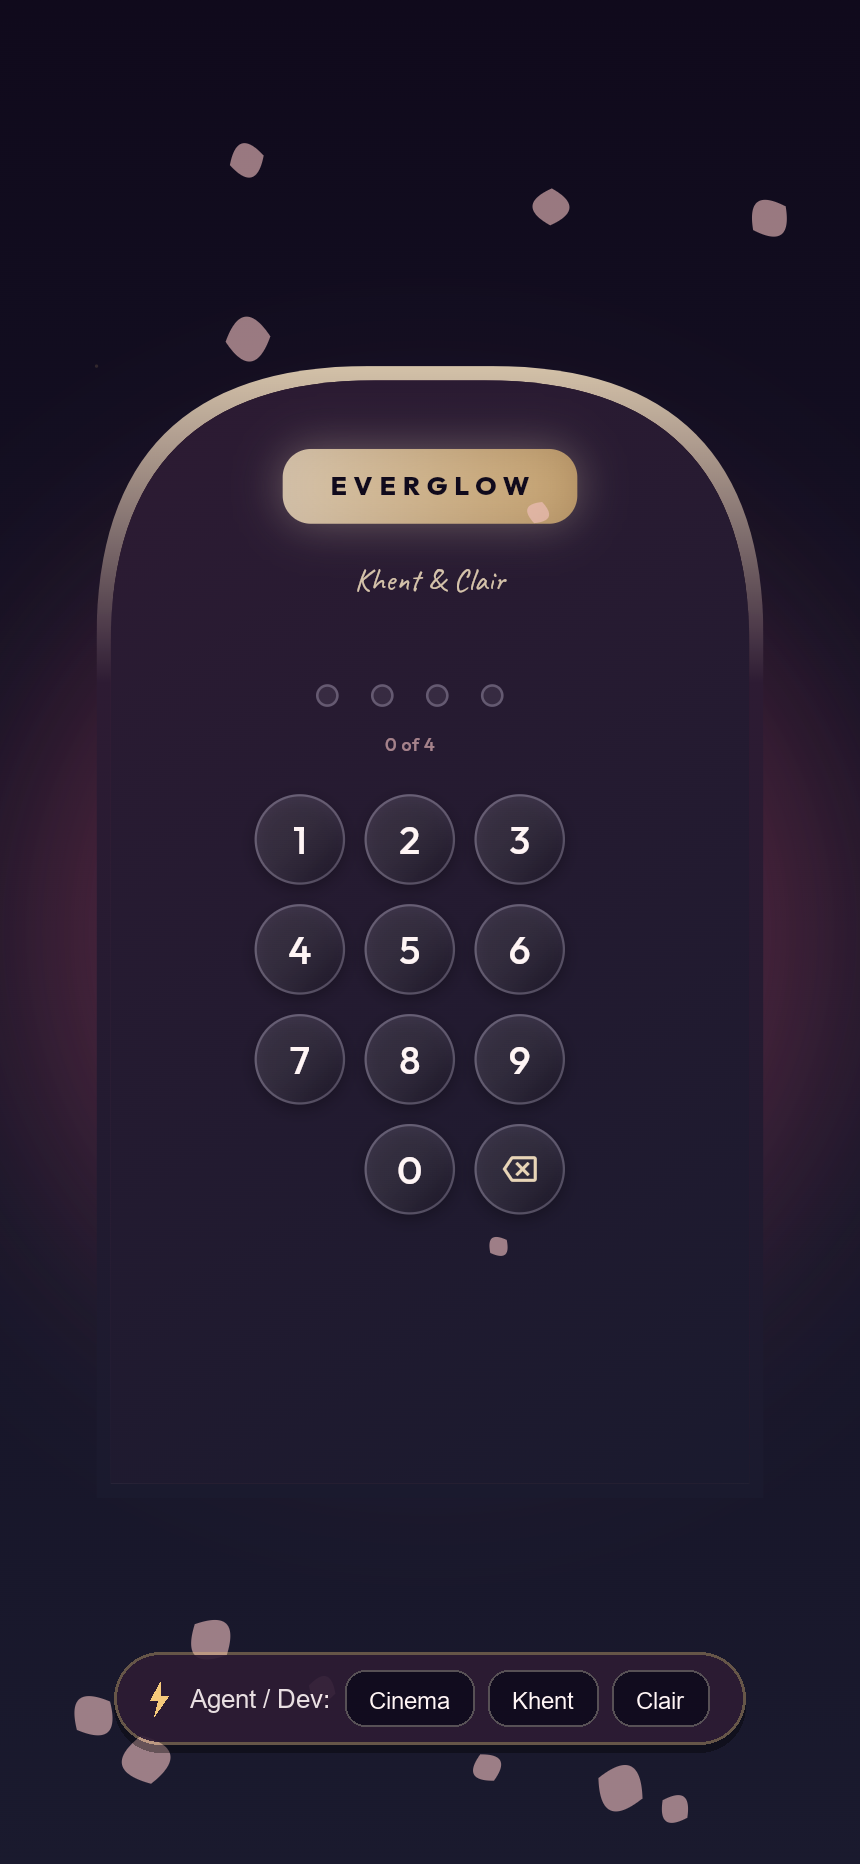
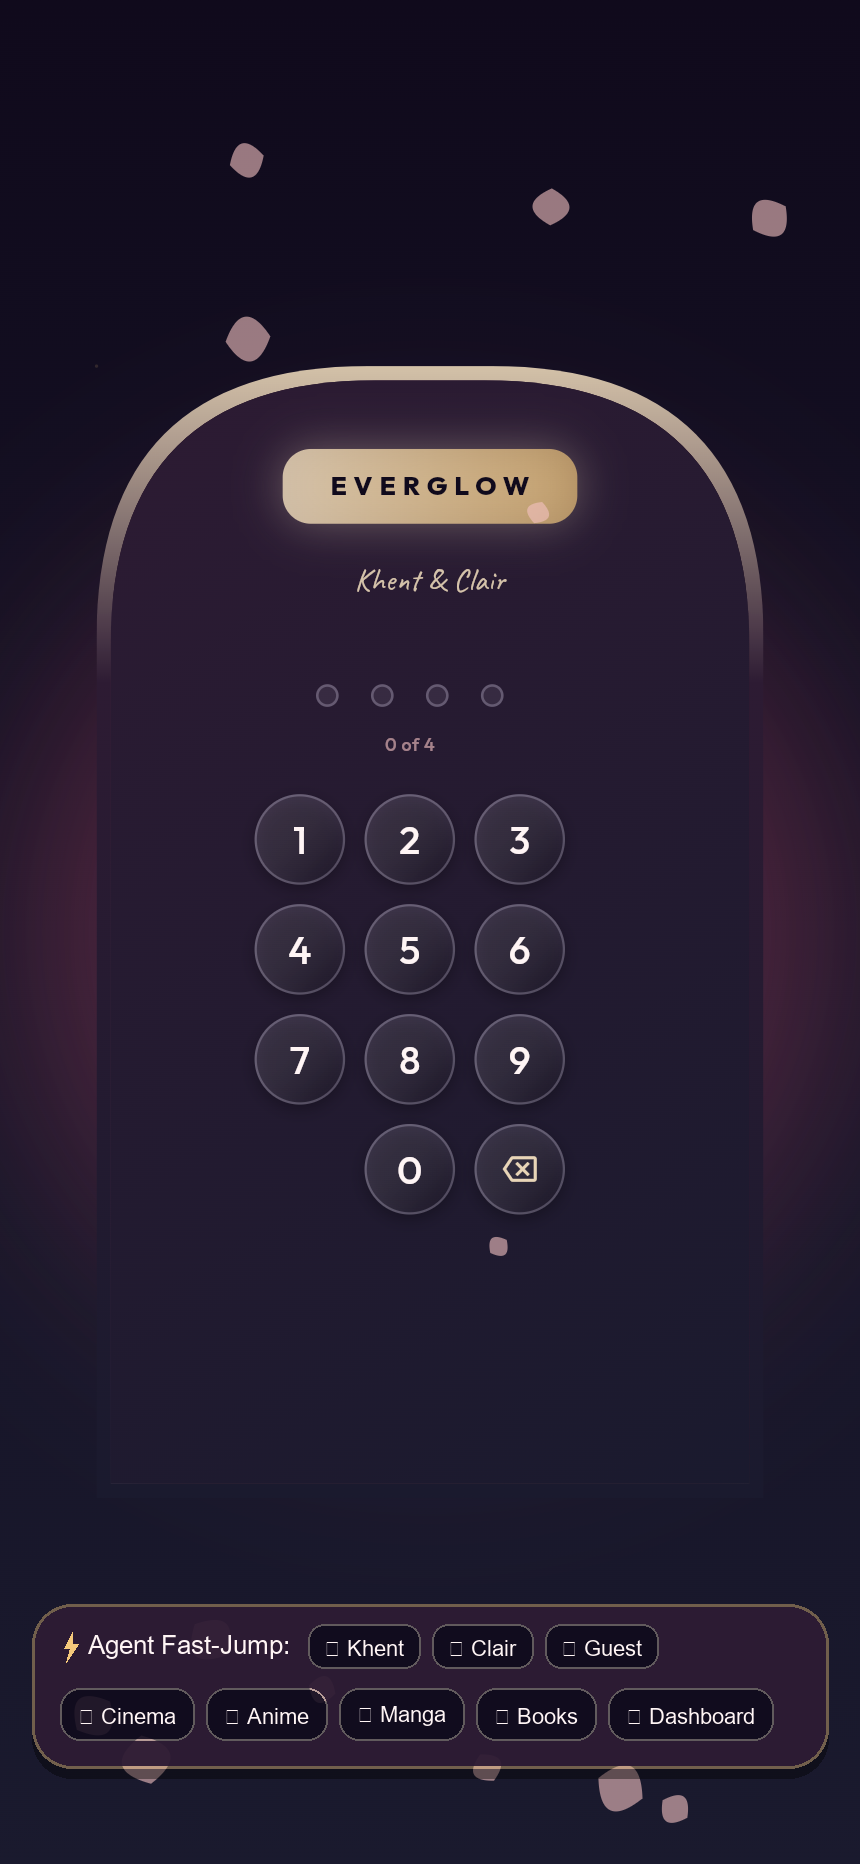
feat(agent): expand launchpad and HUD to cover the whole site (anime, manga, books, and all features)

Changed region(s): [[0.0302, 0.8712, 0.8767, 0.9646], [0.9372, 0.8712, 0.9674, 0.9335]]

diff --git a/lib/features/entry/presentation/pages/gateway_page.dart b/lib/features/entry/presentation/pages/gateway_page.dart
@@ -507,45 +507,122 @@ class _GatewayPageState extends State<GatewayPage> {
   }
 
   Widget _buildDevLoginBar() {
-    final chips = <Widget>[
-      _devUserChip('Cinema', () => _agentLogin('breyan')),
-      _devUserChip('Khent', () => _agentLogin('khentsgdz')),
-      _devUserChip('Clair', () => _agentLogin('clairjassen')),
-      if (EnvConfig.breyanPasscode.isNotEmpty)
-        _devUserChip('Passcode', () => _quickLogin(EnvConfig.breyanPasscode)),
+    final destinations = <({String label, String route, IconData icon})>[
+      (label: 'Cinema', route: '/cinema', icon: Icons.movie_rounded),
+      (label: 'Anime', route: '/anime', icon: Icons.smart_display_rounded),
+      (label: 'Mangacelestia', route: '/manga', icon: Icons.auto_stories_rounded),
+      (label: 'Books', route: '/books', icon: Icons.menu_book_rounded),
+      (label: 'Dashboard', route: '/dashboard', icon: Icons.home_rounded),
+      (label: 'Sanctuary', route: '/sanctuary', icon: Icons.chat_bubble_rounded),
+      (label: 'Gallery', route: '/gallery', icon: Icons.photo_library_rounded),
+      (label: 'Journal', route: '/journal', icon: Icons.book_rounded),
+      (label: 'Tonight', route: '/tonight', icon: Icons.nightlife_rounded),
+      (label: 'Play Zone', route: '/play-zone', icon: Icons.sports_esports_rounded),
+      (label: 'Academy', route: '/academy', icon: Icons.school_rounded),
+      (label: 'Garden', route: '/garden', icon: Icons.local_florist_rounded),
+      (label: 'Starlight', route: '/starlight', icon: Icons.star_rounded),
+      (label: 'Calendar', route: '/calendar', icon: Icons.calendar_month_rounded),
+      (label: 'Trip Kit', route: '/trip-kit', icon: Icons.flight_takeoff_rounded),
+      (label: 'Jukebox', route: '/jukebox', icon: Icons.music_note_rounded),
+      (label: 'Canvas', route: '/canvas', icon: Icons.palette_rounded),
+      (label: 'Bucket List', route: '/bucket-list', icon: Icons.checklist_rounded),
+      (label: 'Money', route: '/money', icon: Icons.account_balance_wallet_rounded),
     ];
 
     return Container(
+      margin: const EdgeInsets.symmetric(horizontal: 16),
+      constraints: const BoxConstraints(maxWidth: 860),
       padding: const EdgeInsets.symmetric(horizontal: 14, vertical: 8),
       decoration: BoxDecoration(
-        color: AppColors.velvet.withValues(alpha: 0.90),
-        borderRadius: BorderRadius.circular(999),
+        color: AppColors.velvet.withValues(alpha: 0.95),
+        borderRadius: BorderRadius.circular(20),
         border: Border.all(
-          color: AppColors.auroraGold.withValues(alpha: 0.35),
+          color: AppColors.auroraGold.withValues(alpha: 0.40),
           width: 1,
         ),
         boxShadow: [
           BoxShadow(
-            color: Colors.black.withValues(alpha: 0.35),
-            blurRadius: 12,
+            color: Colors.black.withValues(alpha: 0.45),
+            blurRadius: 16,
             offset: const Offset(0, 4),
           ),
         ],
       ),
-      child: Row(
+      child: Column(
         mainAxisSize: MainAxisSize.min,
         children: [
-          const Icon(Icons.bolt_rounded, color: AppColors.auroraGold, size: 16),
-          const SizedBox(width: 6),
-          Text(
-            'Dev Login:',
-            style: TextStyle(
-              color: AppColors.petalWhite.withValues(alpha: 0.85),
-              fontSize: 12,
-              fontWeight: FontWeight.w600,
+          Row(
+            mainAxisSize: MainAxisSize.min,
+            children: [
+              const Icon(Icons.bolt_rounded, color: AppColors.auroraGold, size: 16),
+              const SizedBox(width: 6),
+              Text(
+                'Agent Fast-Jump:',
+                style: TextStyle(
+                  color: AppColors.petalWhite.withValues(alpha: 0.90),
+                  fontSize: 12,
+                  fontWeight: FontWeight.w700,
+                ),
+              ),
+              const SizedBox(width: 8),
+              _devUserChip('👤 Khent', () => _agentLogin('khentsgdz')),
+              const SizedBox(width: 6),
+              _devUserChip('🌸 Clair', () => _agentLogin('clairjassen')),
+              const SizedBox(width: 6),
+              _devUserChip('🍿 Guest', () => _agentLogin('breyan')),
+              if (EnvConfig.breyanPasscode.isNotEmpty) ...[
+                const SizedBox(width: 6),
+                _devUserChip('Passcode', () => _quickLogin(EnvConfig.breyanPasscode)),
+              ],
+            ],
+          ),
+          const SizedBox(height: 6),
+          SingleChildScrollView(
+            scrollDirection: Axis.horizontal,
+            child: Row(
+              mainAxisSize: MainAxisSize.min,
+              children: [
+                for (final dest in destinations) ...[
+                  Padding(
+                    padding: const EdgeInsets.only(right: 6),
+                    child: InkWell(
+                      onTap: () => _agentJump(dest.route),
+                      borderRadius: BorderRadius.circular(12),
+                      child: Container(
+                        padding: const EdgeInsets.symmetric(horizontal: 9, vertical: 4),
+                        decoration: BoxDecoration(
+                          color: AppColors.inkDeep.withValues(alpha: 0.85),
+                          borderRadius: BorderRadius.circular(12),
+                          border: Border.all(
+                            color: AppColors.blushGold.withValues(alpha: 0.35),
+                          ),
+                        ),
+                        child: Row(
+                          mainAxisSize: MainAxisSize.min,
+                          children: [
+                            Icon(
+                              dest.icon,
+                              size: 13,
+                              color: AppColors.auroraGold,
+                            ),
+                            const SizedBox(width: 4),
+                            Text(
+                              dest.label,
+                              style: const TextStyle(
+                                color: AppColors.petalWhite,
+                                fontSize: 11,
+                                fontWeight: FontWeight.w500,
+                              ),
+                            ),
+                          ],
+                        ),
+                      ),
+                    ),
+                  ),
+                ],
+              ],
             ),
           ),
-          for (final chip in chips) ...[const SizedBox(width: 6), chip],
         ],
       ),
     );
@@ -561,6 +638,13 @@ class _GatewayPageState extends State<GatewayPage> {
       fallback: isCinema ? '/cinema' : '/dashboard',
     );
     context.go(destination);
+  }
+
+  void _agentJump(String route, {String profile = 'khentsgdz'}) {
+    AgentMode.enable(profile: profile);
+    context.read<AuthService>().enableAgentSession(profile: profile);
+    _hasNavigated = true;
+    context.go(route);
   }
 
   Widget _devUserChip(String label, VoidCallback onTap) {

diff --git a/lib/core/router/app_router.dart b/lib/core/router/app_router.dart
@@ -33,7 +33,9 @@ import '../di/app_providers.dart' as di;
 ///
 /// Each feature owns its route modules under `presentation/routes/`; this
 /// file only composes them. Simple routes use URL parameters. Complex object
-/// routes use `extra`.\n/// Navigation examples:\n///   context.go('/dashboard')
+/// routes use `extra`.
+/// Navigation examples:
+///   context.go('/dashboard')
 ///   context.push('/cinema/video/123?title=Foo&type=movie')
 ///   context.push('/books/reader', extra: bookItem)
 GoRouter createAppRouter() {
@@ -43,14 +45,36 @@ GoRouter createAppRouter() {
       final loc = state.matchedLocation;
       final uri = state.uri;
 
-      // Agent mode activation from query parameter (?agent=1, ?agent=khent, ?agent=cinema, etc.)
+      // Agent mode activation from query parameter (?agent=1, ?agent=khent, ?agent=cinema, ?agent=anime, ?agent=manga, etc.)
       final agentParam = uri.queryParameters['agent'] ?? uri.queryParameters['demo'];
+      final jumpParam = uri.queryParameters['jump'] ?? uri.queryParameters['to'];
+      String? targetRoute;
+
       if (agentParam != null) {
-        final profile = AgentMode.parseProfile(agentParam);
-        AgentMode.enable(profile: profile);
-        di.authService.enableAgentSession(profile: profile);
+        final lower = agentParam.toLowerCase().trim();
+        if (AgentMode.routeAliases.containsKey(lower)) {
+          targetRoute = AgentMode.routeAliases[lower];
+          final profile = lower == 'cinema' ? 'breyan' : 'khentsgdz';
+          AgentMode.enable(profile: profile);
+          di.authService.enableAgentSession(profile: profile);
+        } else {
+          final profile = AgentMode.parseProfile(agentParam);
+          AgentMode.enable(profile: profile);
+          di.authService.enableAgentSession(profile: profile);
+        }
       } else if (AgentMode.isActive.value && di.authService.currentUser == null) {
         di.authService.enableAgentSession(profile: AgentMode.activeProfile.value);
+      }
+
+      if (jumpParam != null && jumpParam.isNotEmpty) {
+        final lower = jumpParam.toLowerCase().trim();
+        targetRoute = AgentMode.routeAliases[lower] ?? jumpParam;
+        if (!targetRoute.startsWith('/')) targetRoute = '/$targetRoute';
+      }
+
+      // If opening doorway with an agent destination target, navigate directly
+      if (loc == '/' && targetRoute != null && targetRoute != '/') {
+        return targetRoute;
       }
 
       // The perf bench is reachable logged out (it carries its own fake data),

diff --git a/lib/core/agent/agent_hud.dart b/lib/core/agent/agent_hud.dart
@@ -61,16 +61,26 @@ class AgentHud extends StatefulWidget {
 
 class _AgentHudState extends State<AgentHud> {
   static const List<({String label, String route, IconData icon})> _routes = [
-    (label: 'Home', route: '/dashboard', icon: Icons.home_rounded),
+    (label: 'Dashboard', route: '/dashboard', icon: Icons.home_rounded),
     (label: 'Cinema', route: '/cinema', icon: Icons.movie_rounded),
     (label: 'Anime', route: '/anime', icon: Icons.smart_display_rounded),
+    (label: 'Mangacelestia', route: '/manga', icon: Icons.auto_stories_rounded),
     (label: 'Books', route: '/books', icon: Icons.menu_book_rounded),
-    (label: 'Manga', route: '/manga', icon: Icons.auto_stories_rounded),
     (label: 'Sanctuary', route: '/sanctuary', icon: Icons.chat_bubble_rounded),
     (label: 'Gallery', route: '/gallery', icon: Icons.photo_library_rounded),
     (label: 'Journal', route: '/journal', icon: Icons.book_rounded),
-    (label: 'Play', route: '/play-zone', icon: Icons.sports_esports_rounded),
-    (label: 'Door', route: '/', icon: Icons.meeting_room_rounded),
+    (label: 'Tonight', route: '/tonight', icon: Icons.nightlife_rounded),
+    (label: 'Play Zone', route: '/play-zone', icon: Icons.sports_esports_rounded),
+    (label: 'Academy', route: '/academy', icon: Icons.school_rounded),
+    (label: 'Garden', route: '/garden', icon: Icons.local_florist_rounded),
+    (label: 'Starlight', route: '/starlight', icon: Icons.star_rounded),
+    (label: 'Calendar', route: '/calendar', icon: Icons.calendar_month_rounded),
+    (label: 'Trip Kit', route: '/trip-kit', icon: Icons.flight_takeoff_rounded),
+    (label: 'Canvas', route: '/canvas', icon: Icons.palette_rounded),
+    (label: 'Bucket List', route: '/bucket-list', icon: Icons.checklist_rounded),
+    (label: 'Money', route: '/money', icon: Icons.account_balance_wallet_rounded),
+    (label: 'Jukebox', route: '/jukebox', icon: Icons.music_note_rounded),
+    (label: 'Doorway', route: '/', icon: Icons.meeting_room_rounded),
   ];
 
   void _cycleProfile(BuildContext context) {

diff --git a/lib/core/agent/agent_mode.dart b/lib/core/agent/agent_mode.dart
@@ -13,6 +13,42 @@ import '../utils/logger.dart';
 class AgentMode {
   AgentMode._();
 
+  /// Map of convenient route aliases for direct agent navigation.
+  static const Map<String, String> routeAliases = {
+    'cinema': '/cinema',
+    'anime': '/anime',
+    'manga': '/manga',
+    'mangacelestia': '/manga',
+    'books': '/books',
+    'bibliotheca': '/books',
+    'dashboard': '/dashboard',
+    'home': '/dashboard',
+    'sanctuary': '/sanctuary',
+    'chat': '/sanctuary',
+    'gallery': '/gallery',
+    'journal': '/journal',
+    'tonight': '/tonight',
+    'calendar': '/calendar',
+    'garden': '/garden',
+    'bloom': '/garden',
+    'starlight': '/starlight',
+    'play': '/play-zone',
+    'playzone': '/play-zone',
+    'play-zone': '/play-zone',
+    'arcade': '/play-zone',
+    'academy': '/academy',
+    'trip-kit': '/trip-kit',
+    'tripkit': '/trip-kit',
+    'canvas': '/canvas',
+    'bucket-list': '/bucket-list',
+    'bucketlist': '/bucket-list',
+    'money': '/money',
+    'jukebox': '/jukebox',
+    'music': '/jukebox',
+    'watch-party': '/watch-party',
+    'watchparty': '/watch-party',
+  };
+
   /// Whether Agent Mode is currently enabled.
   static final ValueNotifier<bool> isActive = ValueNotifier<bool>(false);
 

diff --git a/test/core/agent/agent_mode_test.dart b/test/core/agent/agent_mode_test.dart
@@ -25,6 +25,20 @@ void main() {
       expect(AgentMode.parseProfile('breyan'), 'breyan');
     });
 
+    test('routeAliases covers core destinations including anime and manga', () {
+      expect(AgentMode.routeAliases['cinema'], '/cinema');
+      expect(AgentMode.routeAliases['anime'], '/anime');
+      expect(AgentMode.routeAliases['manga'], '/manga');
+      expect(AgentMode.routeAliases['mangacelestia'], '/manga');
+      expect(AgentMode.routeAliases['books'], '/books');
+      expect(AgentMode.routeAliases['bibliotheca'], '/books');
+      expect(AgentMode.routeAliases['dashboard'], '/dashboard');
+      expect(AgentMode.routeAliases['sanctuary'], '/sanctuary');
+      expect(AgentMode.routeAliases['gallery'], '/gallery');
+      expect(AgentMode.routeAliases['journal'], '/journal');
+      expect(AgentMode.routeAliases['play-zone'], '/play-zone');
+    });
+
     test('enable and switchProfile update active state and profile', () {
       expect(AgentMode.isActive.value, isFalse);
 

diff --git a/AGENTS.md b/AGENTS.md
@@ -52,11 +52,11 @@ Three rules never bend, even if the skill is not loaded:
 
 ### Agent Mode & Local Testing (Direct Navigation & Privacy-Safe Demo Data)
 
-Agents and local developers do not need real credentials or passcodes to test Everglow:
+Agents and local developers do not need real credentials or passcodes to test Everglow across the ENTIRE site:
 
-- **Bypass the Door via URL parameter:** Append `?agent=1`, `?agent=khent`, `?agent=clair`, or `?agent=cinema` to any route (e.g. `http://localhost:<port>/cinema?agent=1` or `http://localhost:<port>/dashboard?agent=khent`). This logs into an isolated simulated session and bypasses the password door without redirects.
-- **Door Bypass Chips:** If opened on `/`, click the `Cinema`, `Khent`, or `Clair` chips on the bottom dev bar to log in with one click.
-- **Floating Agent HUD:** A floating toolbar is present at the bottom of the screen in dev / agent mode. Click route chips (`/dashboard`, `/cinema`, `/anime`, `/books`, `/manga`, `/sanctuary`, `/gallery`, `/journal`, `/play-zone`) to jump directly to any surface, or switch profiles (`Khent ⇄ Clair ⇄ Cinema`). Click the minimize (`—`) button to collapse the HUD into a tiny pill for clean PR proof screenshots.
+- **Direct URL Jumps:** Append `?agent=1` or `?agent=<destination>` directly to the URL (e.g. `/?agent=anime`, `/?agent=manga`, `/?agent=books`, `/?agent=cinema`, `/?agent=dashboard`, or `/manga?agent=1`). This unlocks an isolated simulated session and navigates directly to the target feature without password prompts or redirect bounce loops.
+- **Doorway Agent Fast-Jump Launchpad:** When on the gateway door (`/`), the bottom dev bar provides 1-click fast-jumps to **every single section of Everglow**: Cinema, Anime, Mangacelestia, Books, Dashboard, Sanctuary, Gallery, Journal, Tonight, Play Zone, Academy, Garden, Starlight, Calendar, Trip Kit, Jukebox, Canvas, Bucket List, Money, and profile pickers (Khent, Clair, Cinema Guest).
+- **Floating Agent HUD:** A floating toolbar is present at the bottom of the screen across the app in dev / agent mode. Click route chips across all 20 surfaces to instantly jump between features, or toggle profiles (`Khent ⇄ Clair ⇄ Cinema`). Click the minimize (`—`) button to collapse the HUD into a tiny pill for clean PR proof screenshots.
 - **Privacy-Safe Demo Fixtures:** In Agent Mode, all couple-only features (milestones, notes, mood, starlight, bucket list, calendar, chat, tonight, journal, gallery, date ideas, guardian) automatically feed isolated in-memory mock demo data. Real couple data and private photos are never touched or exposed.
 
 ### Manual browser tooling checks

diff --git a/.agents/skills/everglow-pr/SKILL.md b/.agents/skills/everglow-pr/SKILL.md
@@ -78,10 +78,10 @@ ordinary Quality success does not prove that those browser checks passed.
 - Repo is public: couple-only screens (chat, gallery, notes, garden,
   AI memories) use FAKE demo data only — never real couple data.
 - **Agent Mode for Proof Screenshots & Verification:**
-  - Launch or navigate with `?agent=1` or `?agent=<profile>` (e.g. `http://localhost:<port>/cinema?agent=1`, `/dashboard?agent=khent`, `/sanctuary?agent=clair`).
-  - Or click the `Cinema`, `Khent`, or `Clair` chips on the doorway dev bar.
+  - Directly open any destination across the entire site via query parameter: `/?agent=anime`, `/?agent=manga`, `/?agent=books`, `/?agent=cinema`, `/?agent=dashboard`, etc., or by appending `?agent=1` to any deep link.
+  - Or click any of the 1-click fast-jump destination chips on the doorway launchpad (Cinema, Anime, Mangacelestia, Books, Dashboard, Sanctuary, Gallery, Journal, Tonight, Play Zone, etc.).
   - In Agent Mode, password gates are bypassed and all couple surfaces automatically render safe in-memory demo fixtures.
-  - Use the floating Agent HUD at the bottom to jump between screens or switch profiles (`Khent ⇄ Clair ⇄ Cinema`). Click the minimize button (`—`) on the HUD before snapping the proof screenshot.
+  - Use the floating Agent HUD at the bottom across all 20 surfaces to jump between screens or switch profiles (`Khent ⇄ Clair ⇄ Cinema`). Click the minimize button (`—`) on the HUD before snapping the proof screenshot.
 - Embed it in the PR body with a raw URL pinned to the commit SHA
   (branches get deleted, SHAs don't):
   `![what changed](https://raw.githubusercontent.com/khentmoba/Everglow/<sha>/docs/pr-proof/pr-<number>/shot.png)`
